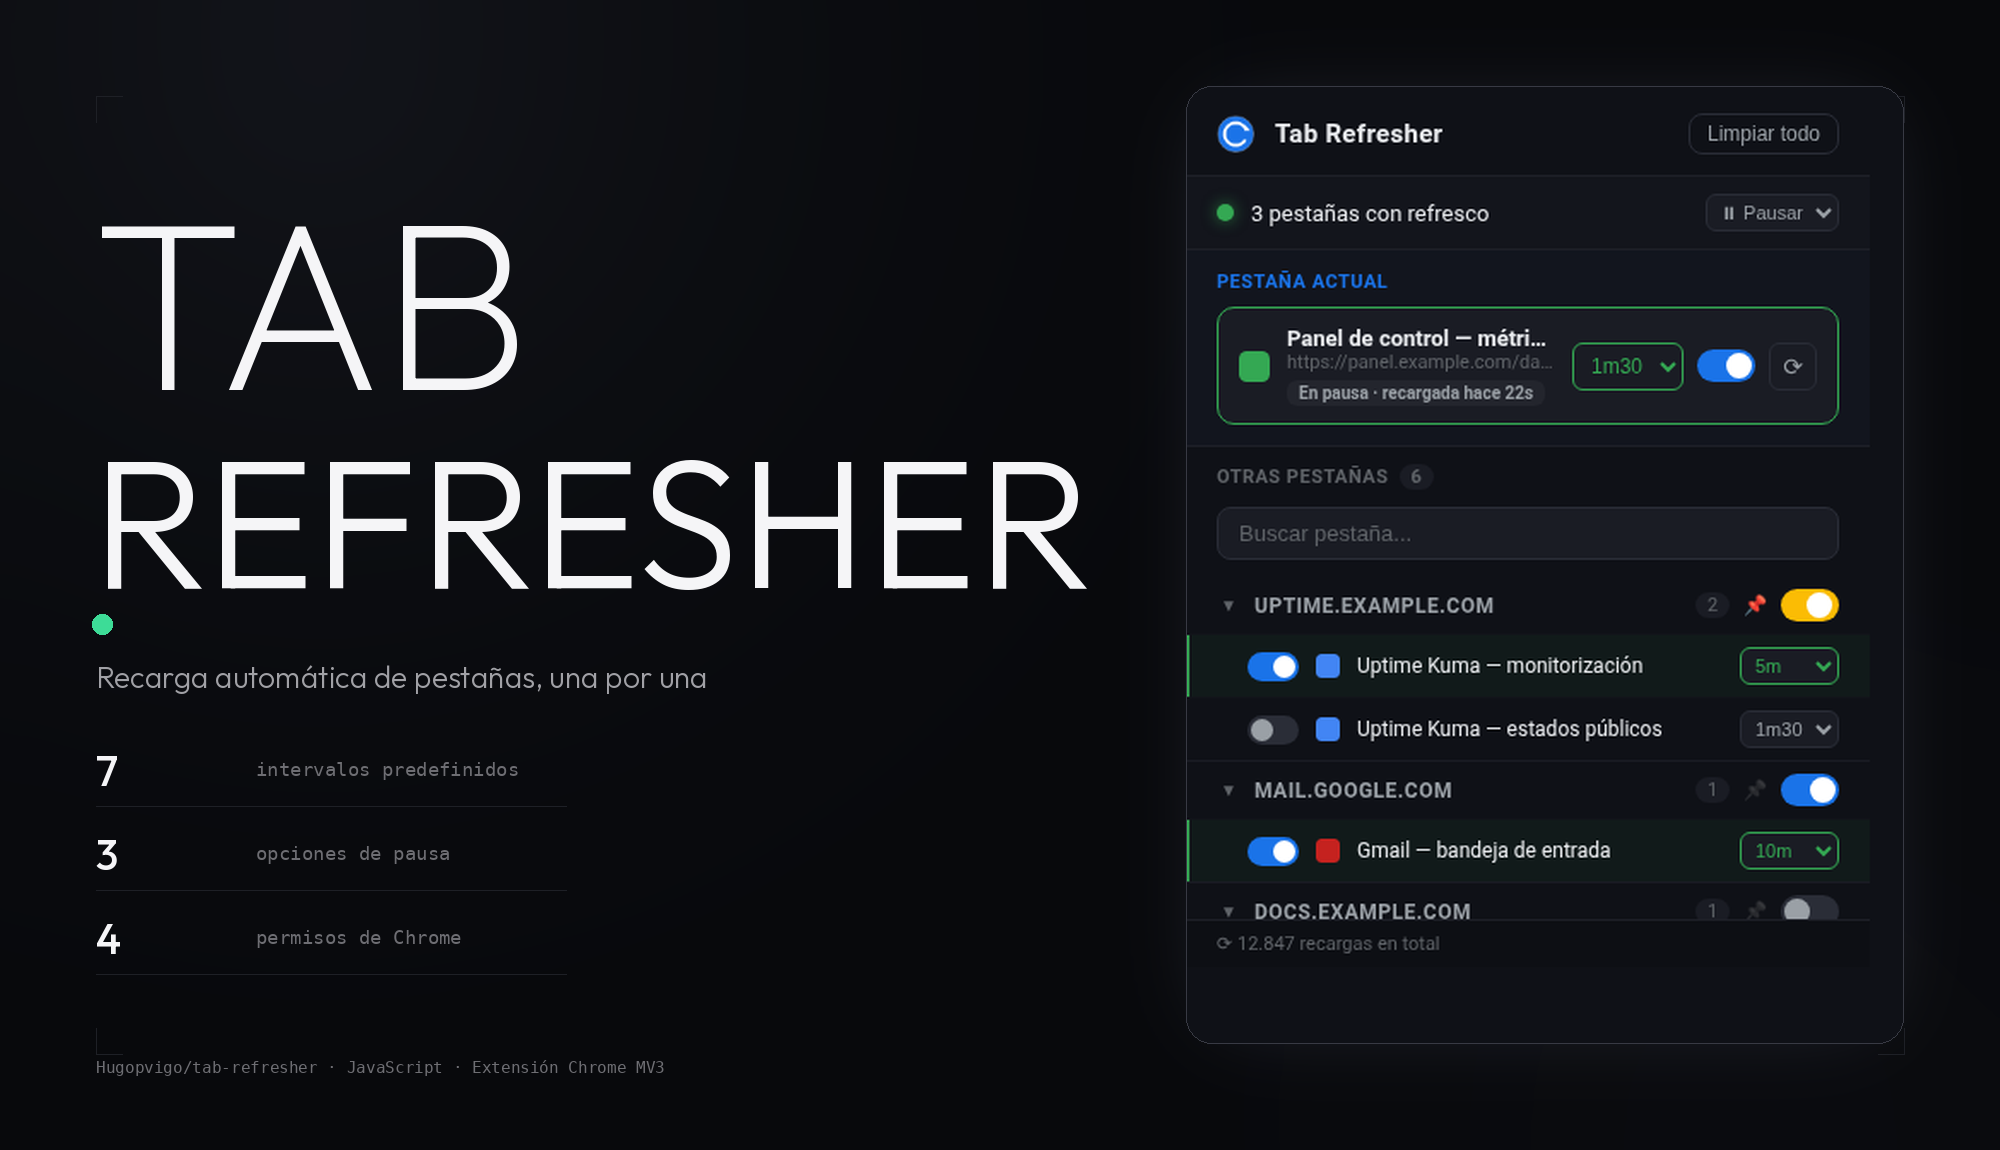
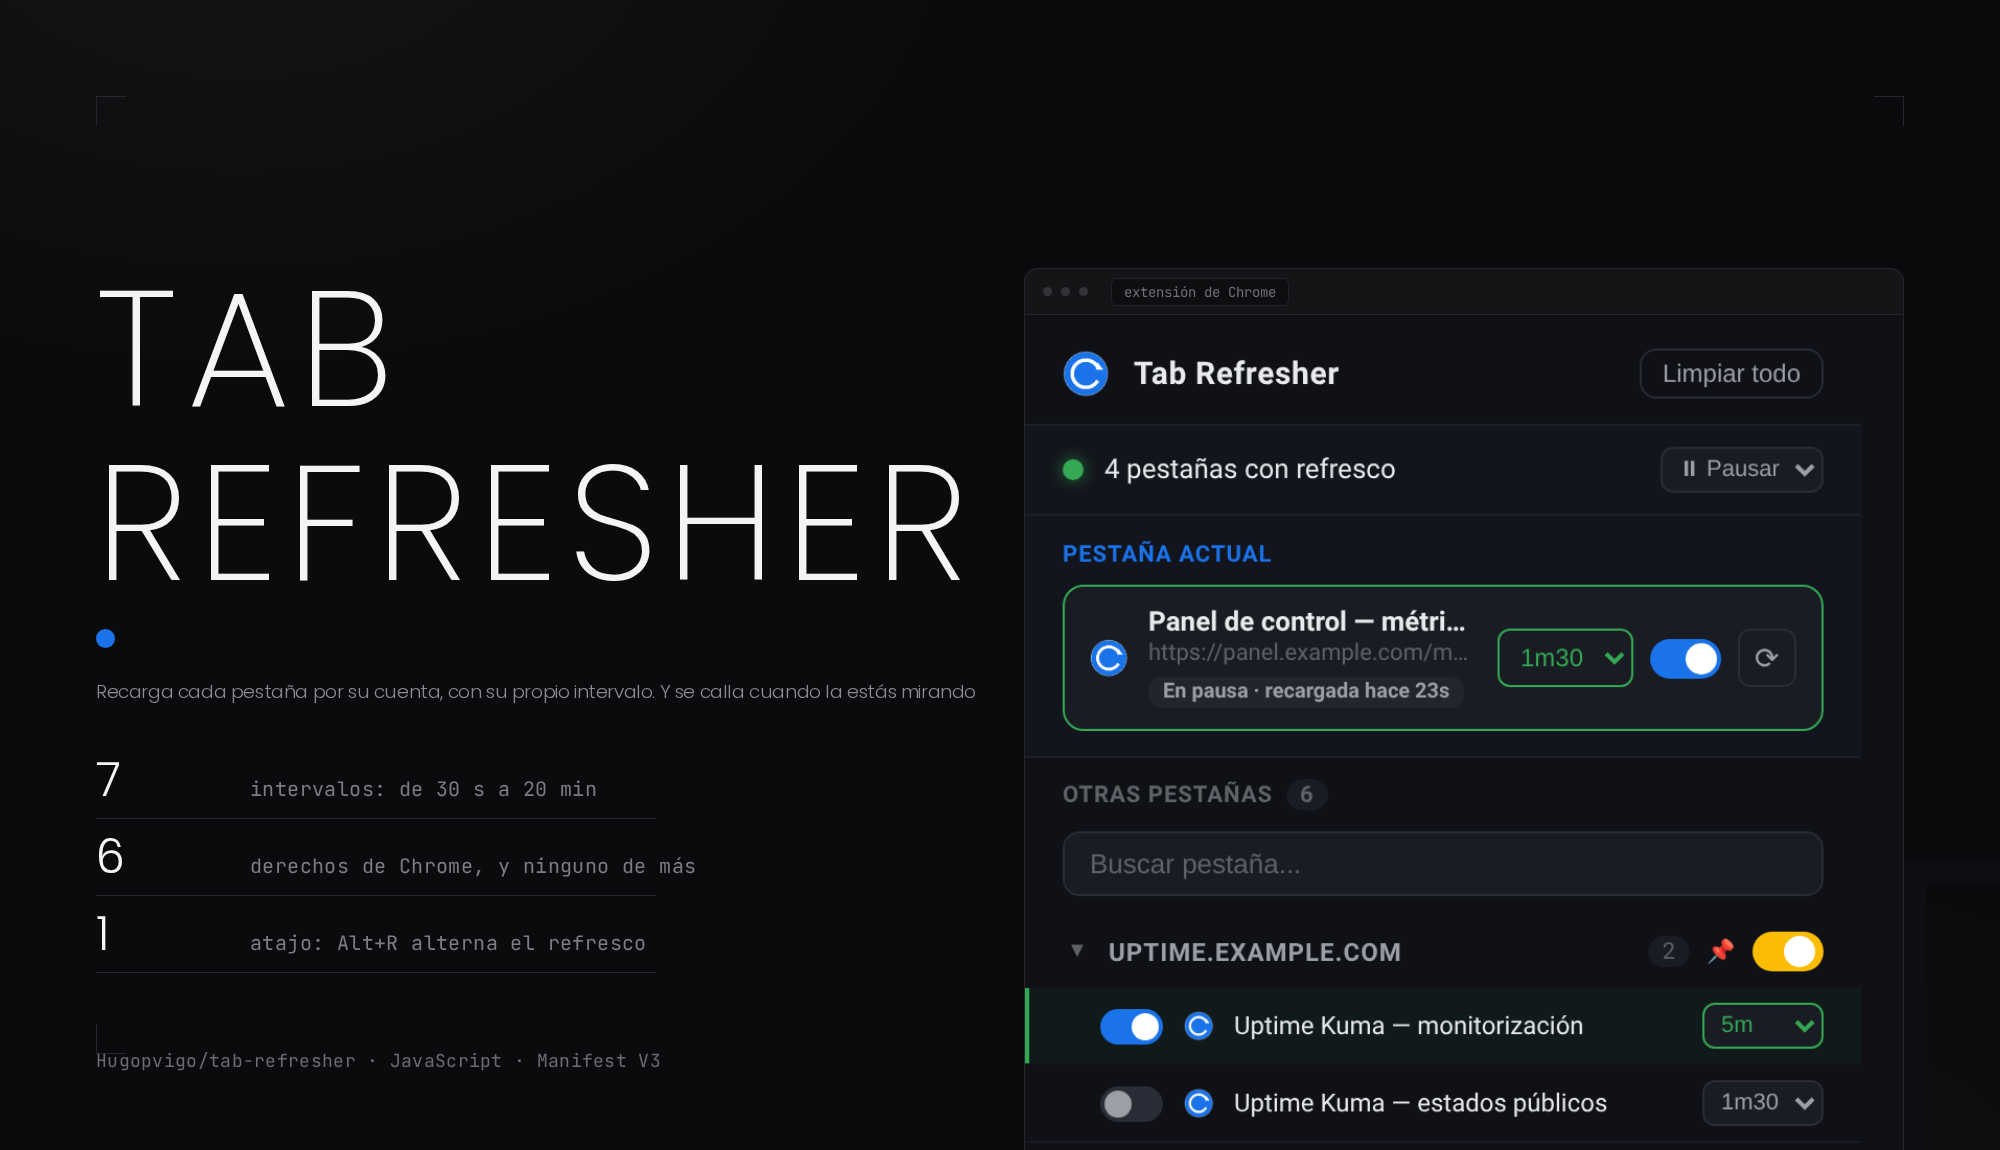
Sistema de diseño: cabecera, capturas, badges, imagen social y tag

diff --git a/README.md b/README.md
@@ -1,5 +1,18 @@
+<meta property="og:title" content="TAB REFRESHER">
+<meta property="og:description" content="Recarga cada pestaña por su cuenta, con su propio intervalo. Y se calla cuando la estás mirando">
+<meta property="og:image" content="https://raw.githubusercontent.com/Hugopvigo/tab-refresher/main/docs/capturas/og.png">
+
 <p align="center">
   <img src="docs/capturas/00-cabecera.png" alt="Tab Refresher — extensión de Chrome que recarga las pestañas automáticamente" width="100%">
+</p>
+
+<p align="center">
+  <a href="https://github.com/Hugopvigo/tab-refresher/blob/main/docs/capturas/02-demo.gif"><img alt="demo" src="https://img.shields.io/badge/demo-en%20vivo-ff5a3c?style=flat-square&labelColor=1a1a1e"></a>
+  <img alt="Chrome" src="https://img.shields.io/badge/Chrome-Manifest%20V3-3DDC84?style=flat-square&labelColor=1a1a1e">
+  <img alt="JavaScript" src="https://img.shields.io/badge/JavaScript-sin%20dependencias-8E8E93?style=flat-square&labelColor=1a1a1e">
+  <a href="https://github.com/Hugopvigo/tab-refresher/releases"><img alt="versión" src="https://img.shields.io/badge/versión-2.3.0-8E8E93?style=flat-square&labelColor=1a1a1e"></a>
+  <img alt="licencia" src="https://img.shields.io/badge/licencia-CC%20BY--NC--SA%204.0-8E8E93?style=flat-square&labelColor=1a1a1e">
+  <img alt="idioma" src="https://img.shields.io/badge/idioma-Español-8E8E93?style=flat-square&labelColor=1a1a1e">
 </p>
 
 <p align="center">
